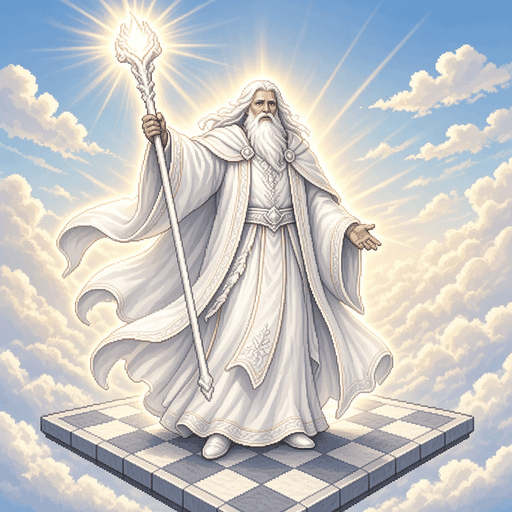
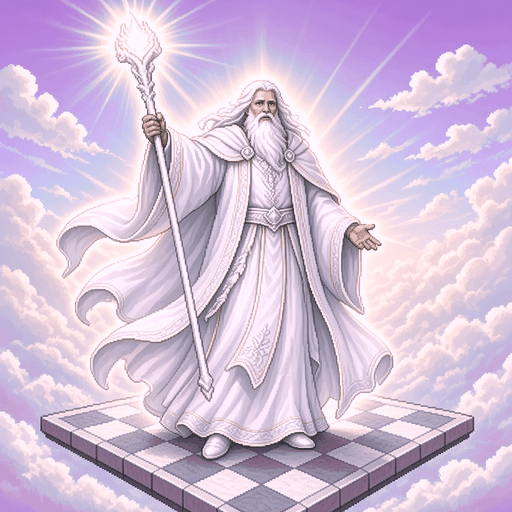
Give every piece type its own colour so pieces tell apart at a glance
Pieces looked alike from across the board, and the dark side was all red and black. Each type now has a colour: Warrior red, Mage violet, Paladin gold, Dragon green, Beast blue, Zealot ash. The dark faces are recoloured to glow in it and the light faces take a soft wash of it (palettes only, same pixels). On the board the token ring is in the type colour and the badge shows the chess piece the line moves like with its level; cards print their type line in the colour, and the compact hand shows a colour strip under the name. Rules doc: Type colours (Djabooty, 2026-10-12).

diff --git a/packages/client/src/style.css b/packages/client/src/style.css
@@ -5089,9 +5089,10 @@ body.g2-grabbing * {
   pointer-events: none;
   color: #3b2a16;
   background: radial-gradient(circle at 34% 28%, #ffffff 0%, #f4eddd 36%, #dccfb2 70%, #bba985 100%);
+  /* The ring is in the piece's type colour (--line); the King, which has no type, keeps its side's. */
   box-shadow:
-    0 0 0 0.08em #c99d50,
-    0 0 0 0.13em #3b2a12,
+    0 0 0 0.1em var(--line, #c99d50),
+    0 0 0 0.15em #3b2a12,
     0 0.14em 0.26em rgba(0, 0, 0, 0.55),
     inset 0 -0.08em 0.16em rgba(90, 60, 20, 0.35),
     inset 0 0.06em 0.08em rgba(255, 255, 255, 0.9);
@@ -5106,8 +5107,8 @@ body.g2-grabbing * {
   color: #efe9ff;
   background: radial-gradient(circle at 34% 28%, #6c618f 0%, #383150 38%, #1d1929 72%, #0d0b13 100%);
   box-shadow:
-    0 0 0 0.08em #a796de,
-    0 0 0 0.13em #120e1b,
+    0 0 0 0.1em var(--line, #a796de),
+    0 0 0 0.15em #120e1b,
     0 0.14em 0.26em rgba(0, 0, 0, 0.6),
     inset 0 -0.08em 0.16em rgba(0, 0, 0, 0.5),
     inset 0 0.06em 0.08em rgba(255, 255, 255, 0.35);
@@ -5119,8 +5120,8 @@ body.g2-grabbing * {
 
 .g2-piece.king {
   box-shadow:
-    0 0 0 0.08em #e2b75e,
-    0 0 0 0.13em #3b2a12,
+    0 0 0 0.1em #e2b75e,
+    0 0 0 0.15em #3b2a12,
     0 0.14em 0.26em rgba(0, 0, 0, 0.55),
     0 0 0.55em rgba(255, 205, 110, 0.7),
     inset 0 -0.08em 0.16em rgba(90, 60, 20, 0.35),
@@ -5129,8 +5130,8 @@ body.g2-grabbing * {
 
 .g2-piece.black.king {
   box-shadow:
-    0 0 0 0.08em #c4b2ff,
-    0 0 0 0.13em #120e1b,
+    0 0 0 0.1em #c4b2ff,
+    0 0 0 0.15em #120e1b,
     0 0.14em 0.26em rgba(0, 0, 0, 0.6),
     0 0 0.55em rgba(180, 140, 255, 0.75),
     inset 0 -0.08em 0.16em rgba(0, 0, 0, 0.5),
@@ -5145,27 +5146,86 @@ body.g2-grabbing * {
   image-rendering: pixelated;
 }
 
-/* A piece's level in its evolution line: I, II or III. */
-.g2-piece-level {
+/*
+ * A type's colours (Djabooty, 2026-10-12), on its cards and its pieces: --line for the ring and the badge, --line-hi
+ * and --line-lo to shade them, --line-ink for writing on the badge and --line-band behind the card's type line.
+ */
+.tribe-warrior {
+  --line: #e0503f;
+  --line-hi: #ffad9f;
+  --line-lo: #7c1a10;
+  --line-ink: #fff4f0;
+  --line-band: rgba(224, 80, 63, 0.3);
+}
+
+.tribe-mage {
+  --line: #a77bff;
+  --line-hi: #dccaff;
+  --line-lo: #47238f;
+  --line-ink: #fdfaff;
+  --line-band: rgba(167, 123, 255, 0.3);
+}
+
+.tribe-paladin {
+  --line: #e8b84a;
+  --line-hi: #ffe7a3;
+  --line-lo: #7a5410;
+  --line-ink: #2b1d05;
+  --line-band: rgba(232, 184, 74, 0.28);
+}
+
+.tribe-dragon {
+  --line: #46c96f;
+  --line-hi: #aef2c2;
+  --line-lo: #135c2a;
+  --line-ink: #04210d;
+  --line-band: rgba(70, 201, 111, 0.28);
+}
+
+.tribe-beast {
+  --line: #4cb4f0;
+  --line-hi: #b8e4ff;
+  --line-lo: #11507a;
+  --line-ink: #031d33;
+  --line-band: rgba(76, 180, 240, 0.28);
+}
+
+.tribe-zealot {
+  --line: #cfc5b0;
+  --line-hi: #f6f1e6;
+  --line-lo: #6b6252;
+  --line-ink: #2a2418;
+  --line-band: rgba(207, 197, 176, 0.24);
+}
+
+/* A piece's badge: the chess piece its line moves like (♜ ♝ ♞ ♛, or its own) and its level, I to III. */
+.g2-piece-badge {
   position: absolute;
-  right: -0.12em;
-  bottom: -0.08em;
-  min-width: 1.6em;
-  height: 1.6em;
-  padding: 0 0.32em;
+  right: -0.14em;
+  bottom: -0.1em;
+  min-width: 1.7em;
+  height: 1.7em;
+  padding: 0 0.3em;
   display: flex;
   align-items: center;
   justify-content: center;
-  border-radius: 0.8em;
+  gap: 0.1em;
+  border-radius: 0.85em;
   font-family: Georgia, 'Times New Roman', serif;
-  font-size: max(8px, 0.3em);
+  font-size: max(9px, 0.32em);
   font-weight: 700;
   line-height: 1;
-  color: #fff6dc;
-  text-shadow: 0 1px 0 rgba(0, 0, 0, 0.6);
-  background: radial-gradient(circle at 35% 30%, #d9a548, #7a4e12 75%);
-  border: 1px solid #fbe3a4;
+  color: var(--line-ink, #fff6dc);
+  text-shadow: 0 1px 0 rgba(0, 0, 0, 0.3);
+  background: radial-gradient(circle at 35% 30%, var(--line-hi, #f0c46a), var(--line, #d9a548) 45%, var(--line-lo, #7a4e12) 100%);
+  border: 1px solid var(--line-hi, #fbe3a4);
   box-shadow: 0 0.1em 0.25em rgba(0, 0, 0, 0.6);
+}
+
+.g2-piece-family {
+  font-family: 'Segoe UI Symbol', 'DejaVu Sans', sans-serif;
+  font-size: 1.2em;
+  font-weight: 400;
 }
 
 /* Lava Breath: a flame on the piece, burning bright while it can spit. */
@@ -5355,7 +5415,7 @@ body.g2-grabbing * {
 .g2-piece.sick::after {
   content: '';
   position: absolute;
-  inset: -0.13em;
+  inset: -0.15em;
   border-radius: 50%;
   border: 0.06em dashed rgba(255, 255, 255, 0.75);
   animation: g2-spin 9s linear infinite;
@@ -5707,7 +5767,7 @@ body.g2-grabbing * {
   text-shadow: 0 0 0.12em hsl(var(--hue) 100% 75%), 0 0 0.45em hsl(var(--hue) 100% 60%), 0 0 0.9em hsl(var(--hue) 100% 55% / 0.7), 0 0.04em 0 #000;
 }
 
-/* The card's type ("Dragon · Level 2"), between two little rules. */
+/* The card's type ("Dragon · Level 2"), between two little rules, in the type's colour. */
 .g2-frame-type {
   flex: none;
   display: flex;
@@ -5722,9 +5782,15 @@ body.g2-grabbing * {
   font-weight: 700;
   letter-spacing: 0.12em;
   text-transform: uppercase;
-  color: var(--ink);
+  color: var(--line-hi, var(--ink));
   text-shadow: 0 0.08em 0 #000;
-  background: linear-gradient(90deg, transparent, rgba(255, 255, 255, 0.07) 30%, rgba(255, 255, 255, 0.07) 70%, transparent);
+  background: linear-gradient(
+    90deg,
+    transparent,
+    var(--line-band, rgba(255, 255, 255, 0.07)) 30%,
+    var(--line-band, rgba(255, 255, 255, 0.07)) 70%,
+    transparent
+  );
   border-top: 0.1em solid rgba(255, 228, 170, 0.28);
   border-bottom: 0.1em solid rgba(0, 0, 0, 0.6);
 }
@@ -8157,6 +8223,8 @@ body.g2-grabbing * {
     padding: 0.3em 0.3em 0.45em;
     border: 0;
     background: linear-gradient(180deg, transparent, rgba(8, 6, 12, 0.9) 45%);
+    /* The type line is hidden here, so a strip in the type's colour runs under the name instead. */
+    box-shadow: inset 0 -0.42em 0 var(--line, transparent);
   }
 
   .g2-card .g2-frame-name span {

diff --git a/packages/client/src/v2/GameScreen.ts b/packages/client/src/v2/GameScreen.ts
@@ -3,7 +3,7 @@
 
 import { v2 } from '@chessx/engine';
 import type { ChatMessage, RoomInfo } from '@chessx/protocol';
-import { cardBack, fillFrame, hourglass, tiltWithPointer, type FrameCard } from './cardFrame.js';
+import { cardBack, fillFrame, hourglass, tiltWithPointer, tribeClass, type FrameCard } from './cardFrame.js';
 import { BoardFx, CARD_DIVE_MS, LAVA_FLIGHT_MS, SPELL_HOLD_MS, SPELL_LANDS_MS, type BannerTone } from './fx.js';
 import { describeEvents, type PieceMemory } from './log.js';
 import { movementPanel } from './movement.js';
@@ -62,6 +62,11 @@ const GLYPHS: Record<string, string> = {
 export const glyphFor = (kind: string, name: string): string => GLYPHS[kind] ?? (name[0] ?? '?').toUpperCase();
 /** A piece's level in its evolution line, as printed on its token. */
 const LEVEL_MARK = ['', 'I', 'II', 'III'];
+/**
+ * The chess piece each line moves like, on the badge of every piece in it (Djabooty, 2026-10-12). A piece in no line
+ * shows its own glyph: the Squire's pawn, the Initiate's cross, the Duskfang's moon.
+ */
+const LINE_GLYPH: Record<string, string> = { Warrior: '♜', Mage: '♝', Paladin: '♞', Dragon: '♛' };
 /** How hard an evolution lands (0 to 1): the final forms slam. */
 const evolveForce = (card: v2.ViewCard | undefined): number => ((card?.level ?? 2) >= 3 ? 1 : 0.6);
 /** Picture window of a spell card that has no picture yet. */
@@ -766,10 +771,17 @@ export class GameScreen {
     const card = piece.cardId ? view.cards[piece.cardId] : undefined;
     const boardArt = card ? v2.faceArt(card, piece.owner).boardArt : undefined;
     const state = `${piece.active ? '' : ' sick'}${piece.shielded ? ' shielded' : ''}${piece.frozen ? ' frozen' : ''}`;
-    const tok = el('div', `g2-piece ${piece.owner}${piece.king ? ' king' : ''}${state}${boardArt ? ' art' : ''}`);
+    const tribe = card?.tribe ? ` ${tribeClass(card.tribe)}` : '';
+    const tok = el('div', `g2-piece ${piece.owner}${piece.king ? ' king' : ''}${tribe}${state}${boardArt ? ' art' : ''}`);
     if (boardArt) tok.style.backgroundImage = `url("${boardArt}")`;
     else tok.append(el('span', 'g2-piece-glyph', glyphFor(piece.kind, piece.name)));
-    if (card?.level) tok.append(el('span', 'g2-piece-level', LEVEL_MARK[card.level] ?? String(card.level)));
+    // The badge: what the piece moves like and its level, in its type's colour.
+    if (card) {
+      const badge = el('span', 'g2-piece-badge');
+      badge.append(el('span', 'g2-piece-family', (card.line && LINE_GLYPH[card.line]) || glyphFor(piece.kind, piece.name)));
+      if (card.level) badge.append(LEVEL_MARK[card.level] ?? String(card.level));
+      tok.append(badge);
+    }
     // An ember on a piece that has Lava Breath, burning bright while it can spit.
     if (piece.abilities?.includes('lavaBreath')) tok.append(el('span', `g2-piece-ember${this.canSpit(piece.square) ? ' ready' : ''}`));
     if (piece.shielded) tok.append(el('span', 'g2-piece-shield'));

diff --git a/packages/client/src/v2/cardFrame.ts b/packages/client/src/v2/cardFrame.ts
@@ -36,6 +36,12 @@ export interface FrameCard {
   rules?: ReadonlyArray<v2.MoveRule>;
 }
 
+/**
+ * Every type has its own colour (Djabooty, 2026-10-12), set by this class on a card and on a piece's token:
+ * `tribe-warrior`, `tribe-dragon`... so pieces tell apart from across the board.
+ */
+export const tribeClass = (tribe: string | undefined): string => (tribe ? `tribe-${tribe.toLowerCase()}` : '');
+
 /** "Dragon · Level 2", "Beast", "Dragon Spell": every card shows its type (Djabooty, 2026-10-11). */
 function typeLine(card: FrameCard): string {
   if (card.kind === 'king') return 'King · not a card';
@@ -254,6 +260,7 @@ document.fonts?.addEventListener('loadingdone', refitAll);
 /** Draw `card` into `root`. */
 export function fillFrame(root: HTMLElement, card: FrameCard): HTMLElement {
   root.classList.add('g2-frame', `g2-frame-${card.kind}`);
+  if (card.tribe) root.classList.add(tribeClass(card.tribe));
   const inner = el('div', 'g2-frame-inner');
   const name = el('div', 'g2-frame-name');
   name.append(el('span', '', card.name));

diff --git a/chessx-rules/docs/chessx-rules.md b/chessx-rules/docs/chessx-rules.md
@@ -58,6 +58,8 @@ Every card names its type. A line's cards are of the line's type: Warrior (Recru
 
 Every card has two faces: a light face for the player with White and a dark face for the player with Black. Owning a card gives you both. The light face looks holy, majestic and noble (think Gandalf the White); the dark face looks mighty, powerful and dark (think Sauron). Every current card has both faces, and its pictures show how strong it is: first levels such as the Recruit, Colt and Wyrmling look humble, final forms look mighty, and the Ancient Mystic Dragon outshines them all (changed by Djabooty, 2026-10-11). The Initiate, Squire and Apprentice are grown men, plainly equipped but threatening, never children: the Initiate is a hooded zealot (White) or cultist (Black) with a staff, the Squire a scarred man-at-arms with sword and shield, and the Apprentice a young wizard with only a small spark of lightning (changed by Djabooty, 2026-10-11). A new card that has only one picture shows it to both sides until it gets its second face.
 
+**Type colours (Djabooty, 2026-10-12):** Pieces looked too much alike from across the board; the dark faces were all red and black. Every type now has its own colour, on both faces: Warrior red, Mage violet, Paladin gold, Dragon green, Beast blue and Zealot ash (plain white on the light face). The dark faces glow in it; the light faces take a soft wash of it in their sky and light. On the board, a piece's ring is in its type's colour, and its badge shows the chess piece its line moves like with its level: ♜ for Warriors, ♝ for Mages, ♞ for Paladins and ♛ for Dragons, while the Squire, Initiate and Duskfang show their own sign (♟, ✚, ☾). A card prints its type in the same colour. The King has no type and keeps its side's colours. New pictures for a type keep to its colour.
+
 ## What was removed
 
 - **Attack and defense stats.** Combat is pure chess capture: move into a square to take it. No ATK/DEF comparison and no hit points.
